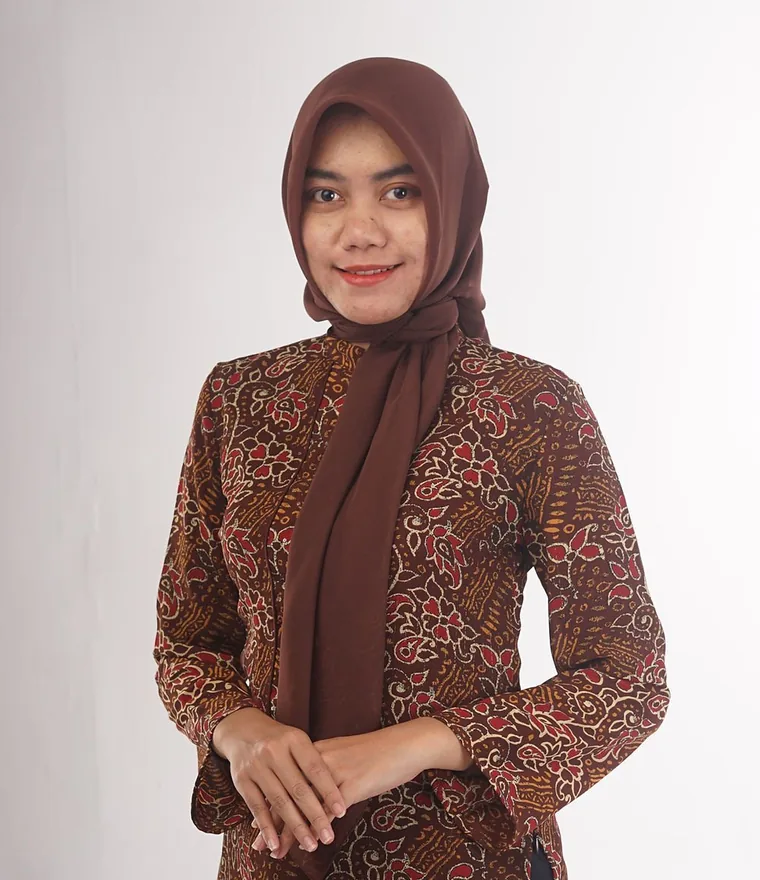
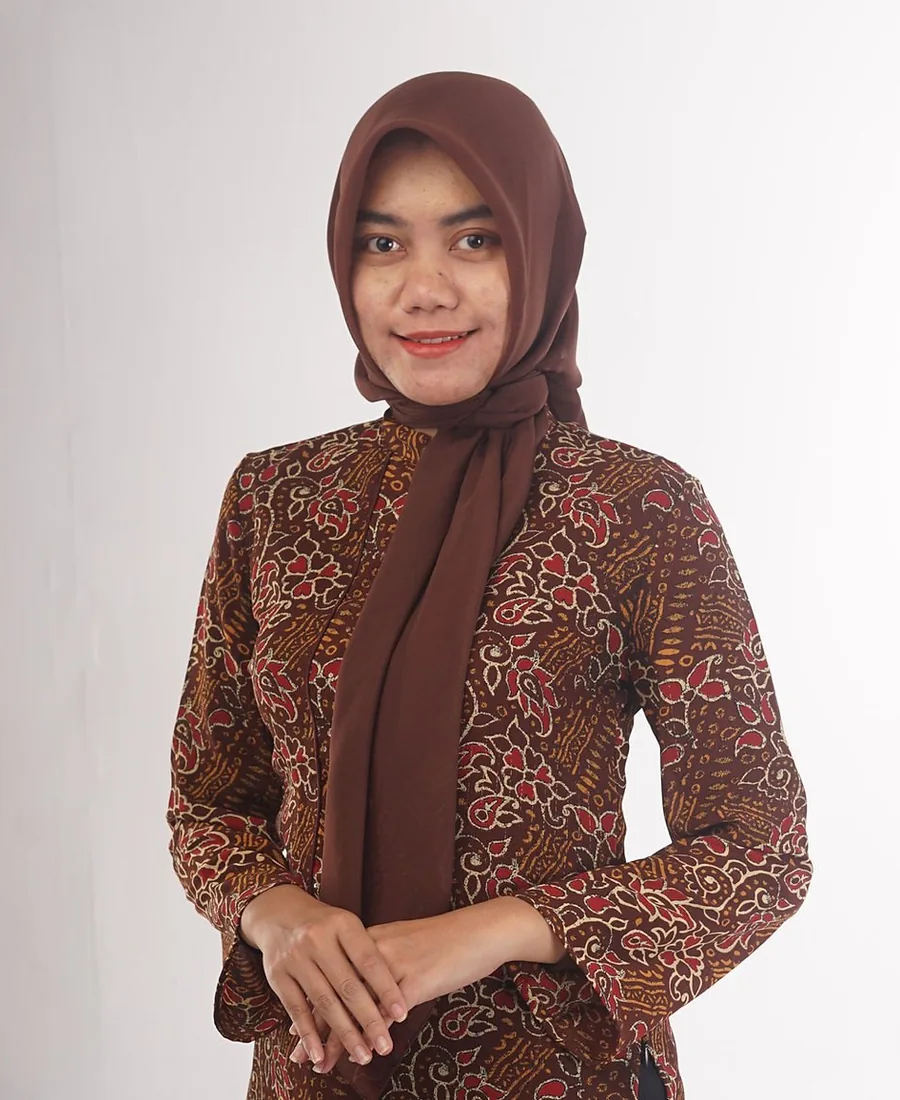
Put the header on warm white with the primary mark, per the guideline
The brand guideline is explicit: keep the logo on white or very light
backgrounds, avoid busy photography, and reverse it only on navy. A light mark
floating over the banner photograph broke two of those at once. The bar is now
a solid Luster White plate at every scroll position carrying the primary navy
mark, with navy nav and burger; the banner starts below it. The decorative
logo watermark over the hero photograph is gone for the same reason. What the
scroll still changes is the shadow and the gold hairline, both driven by the
0-1 value so they arrive gradually.

Buttons are rebuilt flat: no lift, no shadow, no overlay. A button answers by
inverting its own two colours, which reads clearly and suits the hairline
language of the page.

Portraits are re-cropped from the originals at 900x1100 with the head high in
the frame, so a square crop taken from the top keeps the whole head.

Also: people fall to one column under 400px and their e-mail shrinks under
620px, which was the last place a domain split across two lines.

Checked across 5 pages x 11 widths from 320 to 1920 — no overflow, no unused
selector.

diff --git a/assets/css/style.css b/assets/css/style.css
@@ -45,6 +45,7 @@
 html { -webkit-text-size-adjust: 100%; scroll-behavior: smooth; }
 body {
   margin: 0;
+  padding-top: var(--header-h);
   background: var(--luster);
   color: var(--slate);
   font-family: var(--sans);
@@ -128,58 +129,49 @@ ul { margin: 0; padding: 0; list-style: none; }
 }
 
 /* ---------- 4. Buttons ------------------------------------- */
-/* One box, one set of custom properties, one transition list. There is no
-   overlay layer and no stacking context: a variant only restates its colours,
-   and every state animates the same four properties. */
+/* Flat by design: no lift, no shadow, no overlay layer. A button answers by
+   inverting its own two colours, which is legible at a glance and matches the
+   hairline-and-plane language of the rest of the page. */
 .btn {
   --btn-bg: var(--navy);
   --btn-fg: var(--luster);
   --btn-bd: var(--navy);
-  --btn-bg-on: var(--navy-deep);
-  --btn-fg-on: var(--luster);
-  --btn-bd-on: var(--navy-deep);
-  --btn-shadow: rgba(22, 41, 63, 0.26);
+  --btn-bg-on: var(--luster);
+  --btn-fg-on: var(--navy);
+  --btn-bd-on: var(--navy);
 
   display: inline-flex;
   align-items: center;
-  gap: 0.8rem;
-  padding: 1rem 2rem;
+  gap: 0.75rem;
+  padding: 0.95rem 1.9rem;
   background: var(--btn-bg);
   color: var(--btn-fg);
   border: 1px solid var(--btn-bd);
-  font-size: 0.72rem;
+  font-size: 0.7rem;
   font-weight: 600;
-  letter-spacing: 0.18em;
+  letter-spacing: 0.16em;
   text-transform: uppercase;
+  line-height: 1;
   cursor: pointer;
   transition:
-    background-color 0.3s var(--ease-out),
-    border-color 0.3s var(--ease-out),
-    color 0.3s var(--ease-out),
-    box-shadow 0.3s var(--ease-out),
-    transform 0.3s var(--ease-out);
+    background-color 0.35s var(--ease-out),
+    border-color 0.35s var(--ease-out),
+    color 0.35s var(--ease-out);
 }
 .btn:hover,
 .btn:focus-visible {
   background: var(--btn-bg-on);
-  border-color: var(--btn-bd-on);
   color: var(--btn-fg-on);
-  transform: translateY(-2px);
-  box-shadow: 0 10px 22px var(--btn-shadow);
+  border-color: var(--btn-bd-on);
 }
-.btn:active {
-  transform: translateY(0);
-  box-shadow: 0 2px 6px var(--btn-shadow);
-  transition-duration: 0.1s;
-}
-.btn .arrow { transition: transform 0.3s var(--ease-out); }
-.btn:hover .arrow,
-.btn:focus-visible .arrow { transform: translateX(4px); }
+.btn:active { background: var(--btn-bd-on); color: var(--btn-bg-on); transition-duration: 0.08s; }
+.btn .arrow { transition: transform 0.35s var(--ease-out); }
+.btn:hover .arrow, .btn:focus-visible .arrow { transform: translateX(4px); }
 
 .btn--ghost {
   --btn-bg: transparent;
   --btn-fg: var(--navy);
-  --btn-bd: var(--line);
+  --btn-bd: var(--silver);
   --btn-bg-on: var(--navy);
   --btn-fg-on: var(--luster);
   --btn-bd-on: var(--navy);
@@ -188,24 +180,25 @@ ul { margin: 0; padding: 0; list-style: none; }
   --btn-bg: var(--luster);
   --btn-fg: var(--navy);
   --btn-bd: var(--luster);
-  --btn-bg-on: var(--gold);
-  --btn-fg-on: var(--ink-soft);
-  --btn-bd-on: var(--gold);
-  --btn-shadow: rgba(0, 0, 0, 0.34);
+  --btn-bg-on: transparent;
+  --btn-fg-on: var(--luster);
+  --btn-bd-on: var(--luster);
 }
+.btn--solidLight:active { background: var(--gold); color: var(--ink-soft); border-color: var(--gold); }
 .btn-row { display: flex; flex-wrap: wrap; gap: 0.9rem; margin-top: 1.7rem; }
 
-/* the same lift, shared by the rows and cards */
+/* rows and cards answer the same way: a change of tone, not a lift */
 .acc__item { transition: background 0.35s var(--ease-out); }
 .acc__item:hover { background: rgba(31, 58, 95, 0.025); }
 .acc__btn:active { opacity: 0.72; }
-.person, .clients__cell { transition: transform 0.35s var(--ease-out); }
-.person:hover, .clients__cell:hover { transform: translateY(-3px); }
+.person__media, .clients__cell { transition: opacity 0.35s var(--ease-out); }
 
 /* ---------- 5. Header -------------------------------------- */
-/* The bar never changes size on scroll — a height animation is what made it
-   judder and leave a seam. Only the navy ground and the hairline cross-fade,
-   both on opacity, so nothing reflows. */
+/* Brand guideline: the mark sits on white or warm white, never on busy
+   photography, and the reverse lockup is for navy only. So the bar is a solid
+   Luster White plate at every scroll position and carries the primary mark.
+   What the scroll changes is the shadow and the gold hairline, both driven by
+   a 0-1 value written from JS so they arrive gradually. */
 .header {
   position: fixed;
   inset: 0 0 auto;
@@ -213,6 +206,8 @@ ul { margin: 0; padding: 0; list-style: none; }
   height: var(--header-h);
   display: flex;
   align-items: center;
+  background: var(--luster);
+  border-bottom: 1px solid var(--line);
 }
 .header::before,
 .header::after {
@@ -222,19 +217,20 @@ ul { margin: 0; padding: 0; list-style: none; }
   transition: opacity 0.35s var(--ease-out);
   pointer-events: none;
 }
-.header::before { inset: 0; background: var(--navy); }
+.header::before {
+  inset: 0;
+  box-shadow: 0 6px 18px rgba(31, 58, 95, 0.07);
+}
 .header::after {
-  inset: auto 0 0;
+  inset: auto 0 -1px;
   height: 1px;
   background: linear-gradient(90deg,
     rgba(200, 164, 93, 0) 0%,
-    rgba(200, 164, 93, 0.5) 22%,
-    rgba(200, 164, 93, 0.5) 78%,
+    rgba(200, 164, 93, 0.6) 22%,
+    rgba(200, 164, 93, 0.6) 78%,
     rgba(200, 164, 93, 0) 100%);
 }
 .header.is-solid::before, .header.is-solid::after { opacity: 1; }
-/* with JS running the ground fades in progressively over the first 120px of
-   scroll rather than switching at a threshold */
 .header.is-tracking::before,
 .header.is-tracking::after {
   opacity: var(--nav-on, 0);
@@ -245,7 +241,6 @@ ul { margin: 0; padding: 0; list-style: none; }
 .brand { display: flex; align-items: center; }
 .brand img { height: 46px; width: auto; }
 
-
 .nav { display: none; align-items: center; gap: clamp(1.4rem, 2.8vw, 2.8rem); }
 @media (min-width: 940px) { .nav { display: flex; } }
 .nav a {
@@ -254,9 +249,9 @@ ul { margin: 0; padding: 0; list-style: none; }
   font-weight: 500;
   letter-spacing: 0.14em;
   text-transform: uppercase;
-  color: rgba(244, 241, 236, 0.82);
+  color: var(--slate);
   padding-block: 0.4rem;
-  transition: color 0.35s var(--ease);
+  transition: color 0.3s var(--ease-out);
 }
 .nav a::after {
   content: "";
@@ -266,12 +261,10 @@ ul { margin: 0; padding: 0; list-style: none; }
   background: var(--gold);
   transform: scaleX(0);
   transform-origin: right;
-  transition: transform 0.45s var(--ease-out);
+  transition: transform 0.4s var(--ease-out);
 }
 .nav a:hover::after, .nav a[aria-current="page"]::after { transform: scaleX(1); transform-origin: left; }
-.nav a:hover, .nav a[aria-current="page"] { color: var(--luster); }
-
-
+.nav a:hover, .nav a[aria-current="page"] { color: var(--navy); }
 
 .burger {
   display: inline-flex;
@@ -289,8 +282,8 @@ ul { margin: 0; padding: 0; list-style: none; }
   display: block;
   height: 1.5px;
   width: 26px;
-  background: var(--luster);
-  transition: transform 0.4s var(--ease), opacity 0.3s var(--ease), background 0.4s var(--ease);
+  background: var(--navy);
+  transition: transform 0.4s var(--ease-out), opacity 0.3s var(--ease-out);
 }
 .burger[aria-expanded="true"] span:nth-child(1) { transform: translateY(7.5px) rotate(45deg); }
 .burger[aria-expanded="true"] span:nth-child(2) { opacity: 0; }
@@ -298,7 +291,7 @@ ul { margin: 0; padding: 0; list-style: none; }
 
 .drawer {
   position: fixed;
-  inset: 0;
+  inset: calc(var(--header-h) * -1) 0 0;
   z-index: 80;
   background: var(--navy);
   padding: calc(var(--header-h) + 3rem) var(--gutter) 3rem;
@@ -337,7 +330,7 @@ ul { margin: 0; padding: 0; list-style: none; }
   min-height: min(78vh, 660px);
   display: flex;
   align-items: center;
-  padding-top: calc(var(--header-h) + 3rem);
+  padding-top: clamp(3rem, 6vw, 5rem);
   padding-bottom: clamp(3rem, 6vw, 5rem);
   background: var(--navy-deep);
   overflow: hidden;
@@ -367,15 +360,6 @@ ul { margin: 0; padding: 0; list-style: none; }
 }
 .hero h1 .thin { display: block; font-weight: 400; color: rgba(244, 241, 236, 0.92); }
 .hero .lead { color: rgba(244, 241, 236, 0.8); max-width: 54ch; margin-top: 1.7rem; }
-.hero__mark {
-  position: absolute;
-  right: -2%;
-  bottom: -10%;
-  width: min(44vw, 480px);
-  opacity: 0.1;
-  z-index: -1;
-  pointer-events: none;
-}
 
 /* ---------- 7. Figures ------------------------------------- */
 .figure { position: relative; }
@@ -530,9 +514,11 @@ ul { margin: 0; padding: 0; list-style: none; }
 /* ---------- 10. People ------------------------------------- */
 .people {
   display: grid;
-  grid-template-columns: repeat(2, 1fr);
+  /* below 400px two columns cannot hold an e-mail on one line */
+  grid-template-columns: 1fr;
   gap: clamp(1.4rem, 2.4vw, 2rem) clamp(1rem, 1.8vw, 1.7rem);
 }
+@media (min-width: 400px) { .people { grid-template-columns: repeat(2, 1fr); } }
 @media (min-width: 900px) { .people { grid-template-columns: repeat(4, 1fr); } }
 .person { text-align: center; }
 .person__media {
@@ -563,9 +549,12 @@ ul { margin: 0; padding: 0; list-style: none; }
   margin-top: 0.7rem;
   font-size: 0.85rem;
   border-bottom: 1px solid transparent;
-  transition: color 0.35s var(--ease), border-color 0.35s var(--ease);
-  word-break: break-word;
+  transition: color 0.35s var(--ease-out), border-color 0.35s var(--ease-out);
+  overflow-wrap: break-word;
 }
+/* on two narrow columns the address has to fit on one line, or it splits
+   across the middle of the domain */
+@media (max-width: 620px) { .person__mail { font-size: 0.72rem; } }
 .person__mail:hover { color: var(--navy); border-color: var(--gold); }
 
 /* ---------- 11. Companies ---------------------------------- */

diff --git a/index.html b/index.html
@@ -22,7 +22,7 @@
 <header class="header">
   <div class="shell">
     <a class="brand" href="index.html" aria-label="Tanuwijaya &amp; Partners — home">
-      <img src="assets/logo/mark-light.svg" alt="Tanuwijaya &amp; Partners" width="306" height="144">
+      <img src="assets/logo/mark-navy.svg" alt="Tanuwijaya &amp; Partners" width="286" height="147">
     </a>
     <nav class="nav" aria-label="Primary">
       <a href="index.html" aria-current="page">Home</a>
@@ -55,7 +55,6 @@
 <section class="hero">
   <div class="hero__media"><img src="assets/img/hero-home.webp" alt="Advisers reviewing financial reports with a client" fetchpriority="high" width="2000" height="1180"></div>
   <div class="hero__scrim"></div>
-  <img class="hero__mark" src="assets/logo/mark-light.svg" alt="" aria-hidden="true">
   <div class="shell hero__inner">
     <h1 data-reveal>Corporate Services<span class="thin">Redefined</span></h1>
     <p class="lead" data-reveal style="--d:120ms">Tanuwijaya &amp; Partners is a boutique corporate services firm. Our team of experts delivers comprehensive corporate services, including accounting, audit, tax, and legal solutions, tailored to your unique needs. With our expertise and personalized approach, you&rsquo;ll gain clarity, efficiency, and peace of mind, allowing you to focus on driving growth and innovation.</p>

diff --git a/our-people.html b/our-people.html
@@ -22,7 +22,7 @@
 <header class="header">
   <div class="shell">
     <a class="brand" href="index.html" aria-label="Tanuwijaya &amp; Partners — home">
-      <img src="assets/logo/mark-light.svg" alt="Tanuwijaya &amp; Partners" width="306" height="144">
+      <img src="assets/logo/mark-navy.svg" alt="Tanuwijaya &amp; Partners" width="286" height="147">
     </a>
     <nav class="nav" aria-label="Primary">
       <a href="index.html">Home</a>
@@ -55,7 +55,6 @@
 <section class="hero">
   <div class="hero__media"><img src="assets/img/hero-people.webp" alt="The Tanuwijaya &amp; Partners team in discussion" fetchpriority="high" width="2000" height="1180"></div>
   <div class="hero__scrim"></div>
-  <img class="hero__mark" src="assets/logo/mark-light.svg" alt="" aria-hidden="true">
   <div class="shell hero__inner">
     <h1 data-reveal>Trusted by clients<span class="thin">since 1999</span></h1>
     <p class="lead" data-reveal style="--d:120ms">We provide you with direct and expert legal care so that you can resolve issues early and amicably. Tanuwijaya &amp; Partners is one of the few corporate services company that are family owned. This ensures that clients receive long lasting commitment that can be passed through generations. The relationship is long-term.</p>

diff --git a/about.html b/about.html
@@ -22,7 +22,7 @@
 <header class="header">
   <div class="shell">
     <a class="brand" href="index.html" aria-label="Tanuwijaya &amp; Partners — home">
-      <img src="assets/logo/mark-light.svg" alt="Tanuwijaya &amp; Partners" width="306" height="144">
+      <img src="assets/logo/mark-navy.svg" alt="Tanuwijaya &amp; Partners" width="286" height="147">
     </a>
     <nav class="nav" aria-label="Primary">
       <a href="index.html">Home</a>
@@ -55,7 +55,6 @@
 <section class="hero">
   <div class="hero__media"><img src="assets/img/hero-about.webp" alt="Office facade in the Jakarta business district" fetchpriority="high" width="2000" height="1180"></div>
   <div class="hero__scrim"></div>
-  <img class="hero__mark" src="assets/logo/mark-light.svg" alt="" aria-hidden="true">
   <div class="shell hero__inner">
     <h1 data-reveal>Our Humble<span class="thin">Beginning</span></h1>
     <p class="lead" data-reveal style="--d:120ms">Since 1989, Tanuwijaya &amp; Partners has built lasting relationships through expert legal care and trusted corporate services. As a family-owned firm, we are dedicated to long-term partnerships&mdash;supporting businesses and individuals from local enterprises to global organizations.</p>

diff --git a/industries-services.html b/industries-services.html
@@ -22,7 +22,7 @@
 <header class="header">
   <div class="shell">
     <a class="brand" href="index.html" aria-label="Tanuwijaya &amp; Partners — home">
-      <img src="assets/logo/mark-light.svg" alt="Tanuwijaya &amp; Partners" width="306" height="144">
+      <img src="assets/logo/mark-navy.svg" alt="Tanuwijaya &amp; Partners" width="286" height="147">
     </a>
     <nav class="nav" aria-label="Primary">
       <a href="index.html">Home</a>
@@ -55,7 +55,6 @@
 <section class="hero">
   <div class="hero__media"><img src="assets/img/hero-industries.webp" alt="Jakarta business district" fetchpriority="high" width="2000" height="1180"></div>
   <div class="hero__scrim"></div>
-  <img class="hero__mark" src="assets/logo/mark-light.svg" alt="" aria-hidden="true">
   <div class="shell hero__inner">
     <h1 data-reveal>Top-notch<span class="thin">Corporate Services</span></h1>
     <p class="lead" data-reveal style="--d:120ms">Trusted by generations, we deliver professional corporate solutions with personalized care, confidentiality, and unwavering integrity</p>

diff --git a/contact.html b/contact.html
@@ -22,7 +22,7 @@
 <header class="header">
   <div class="shell">
     <a class="brand" href="index.html" aria-label="Tanuwijaya &amp; Partners — home">
-      <img src="assets/logo/mark-light.svg" alt="Tanuwijaya &amp; Partners" width="306" height="144">
+      <img src="assets/logo/mark-navy.svg" alt="Tanuwijaya &amp; Partners" width="286" height="147">
     </a>
     <nav class="nav" aria-label="Primary">
       <a href="index.html">Home</a>
@@ -55,7 +55,6 @@
 <section class="hero">
   <div class="hero__media"><img src="assets/img/hero-contact.webp" alt="Reviewing documents with a client" fetchpriority="high" width="2000" height="1180"></div>
   <div class="hero__scrim"></div>
-  <img class="hero__mark" src="assets/logo/mark-light.svg" alt="" aria-hidden="true">
   <div class="shell hero__inner">
     <h1 data-reveal>Let&rsquo;s start a<span class="thin">Conversation</span></h1>
     <p class="lead" data-reveal style="--d:120ms">Schedule a consultation and get to know us more and let us be your solution to your problem.</p>

diff --git a/_tools/build.py b/_tools/build.py
@@ -170,7 +170,7 @@ def header(page):
 <header class="header">
   <div class="shell">
     <a class="brand" href="index.html" aria-label="Tanuwijaya &amp; Partners — home">
-      <img src="assets/logo/mark-light.svg" alt="Tanuwijaya &amp; Partners" width="306" height="144">
+      <img src="assets/logo/mark-navy.svg" alt="Tanuwijaya &amp; Partners" width="286" height="147">
     </a>
     <nav class="nav" aria-label="Primary">%s
     </nav>
@@ -197,7 +197,6 @@ def hero(title_top, title_thin, lead, button, img, alt):
 <section class="hero">
   <div class="hero__media"><img src="assets/img/%s" alt="%s" fetchpriority="high" width="2000" height="1180"></div>
   <div class="hero__scrim"></div>
-  <img class="hero__mark" src="assets/logo/mark-light.svg" alt="" aria-hidden="true">
   <div class="shell hero__inner">
     <h1 data-reveal>%s<span class="thin">%s</span></h1>
     <p class="lead" data-reveal style="--d:120ms">%s</p>

diff --git a/README.md b/README.md
@@ -81,14 +81,17 @@ self-host ada di `_Shared/_Font/`.
 
 ## Interaksi
 
-- Header transparan hanya saat halaman diam di paling atas; begitu discroll
-   (8px) background navy langsung fade in, jadi headline banner tidak pernah
-   lewat di bawah bar transparan.
+- Header adalah bar solid Luster White di semua posisi scroll, memakai logo
+  navy primer. Ini mengikuti Brand Guideline: logo hanya boleh di atas putih /
+  warm white, versi reverse hanya di atas navy, dan tidak boleh di atas foto.
+  Yang berubah saat scroll cuma bayangan tipis dan garis emasnya, digerakkan
+  nilai 0-1 dari JS sepanjang 120px pertama supaya datang bertahap.
   Selalu menempel di atas dan **tingginya tidak pernah berubah saat scroll** —
   yang cross-fade hanya background dan garis emasnya, keduanya lewat `opacity`,
   jadi tidak ada reflow, jeda, atau seam. Tinggi 88px di desktop, 66px di bawah
   700px (breakpoint, bukan efek scroll).
-- Logo memakai logogram TWJ saja tanpa wordmark, di header maupun footer.
+- Logo memakai logogram TWJ saja tanpa wordmark: versi navy primer di header,
+  versi reverse di footer.
 - Menu mobile: drawer full-screen navy.
 - Accordion partner di Home: selalu ada satu partner yang terbuka, dan fotonya
   square 1:1 sehingga tidak pernah menonjol keluar dari kolomnya.
